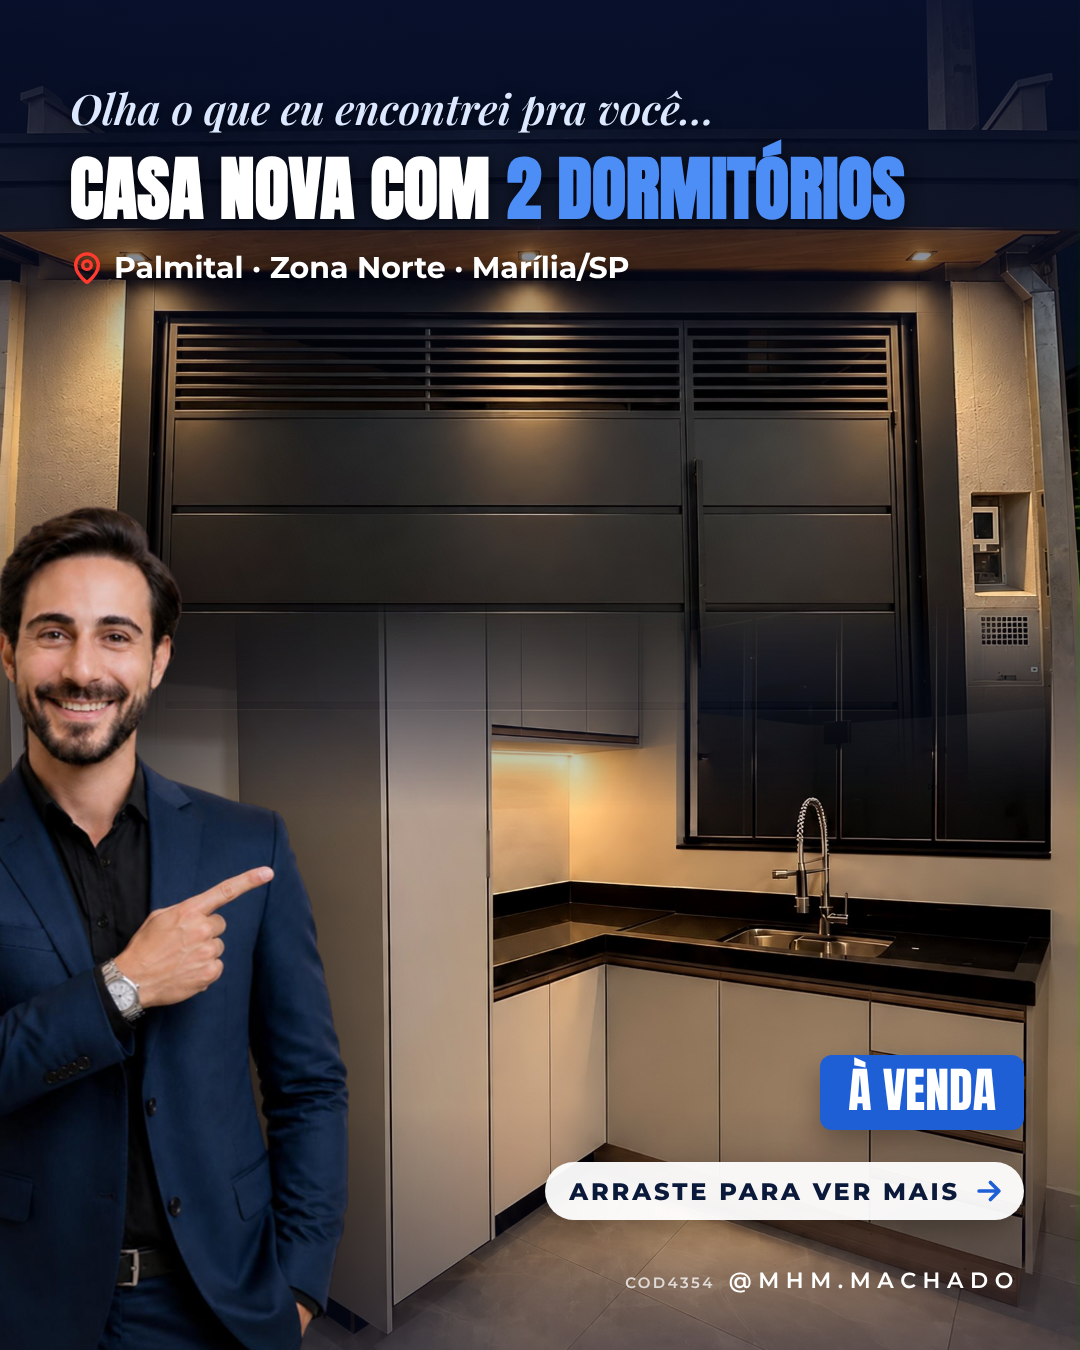
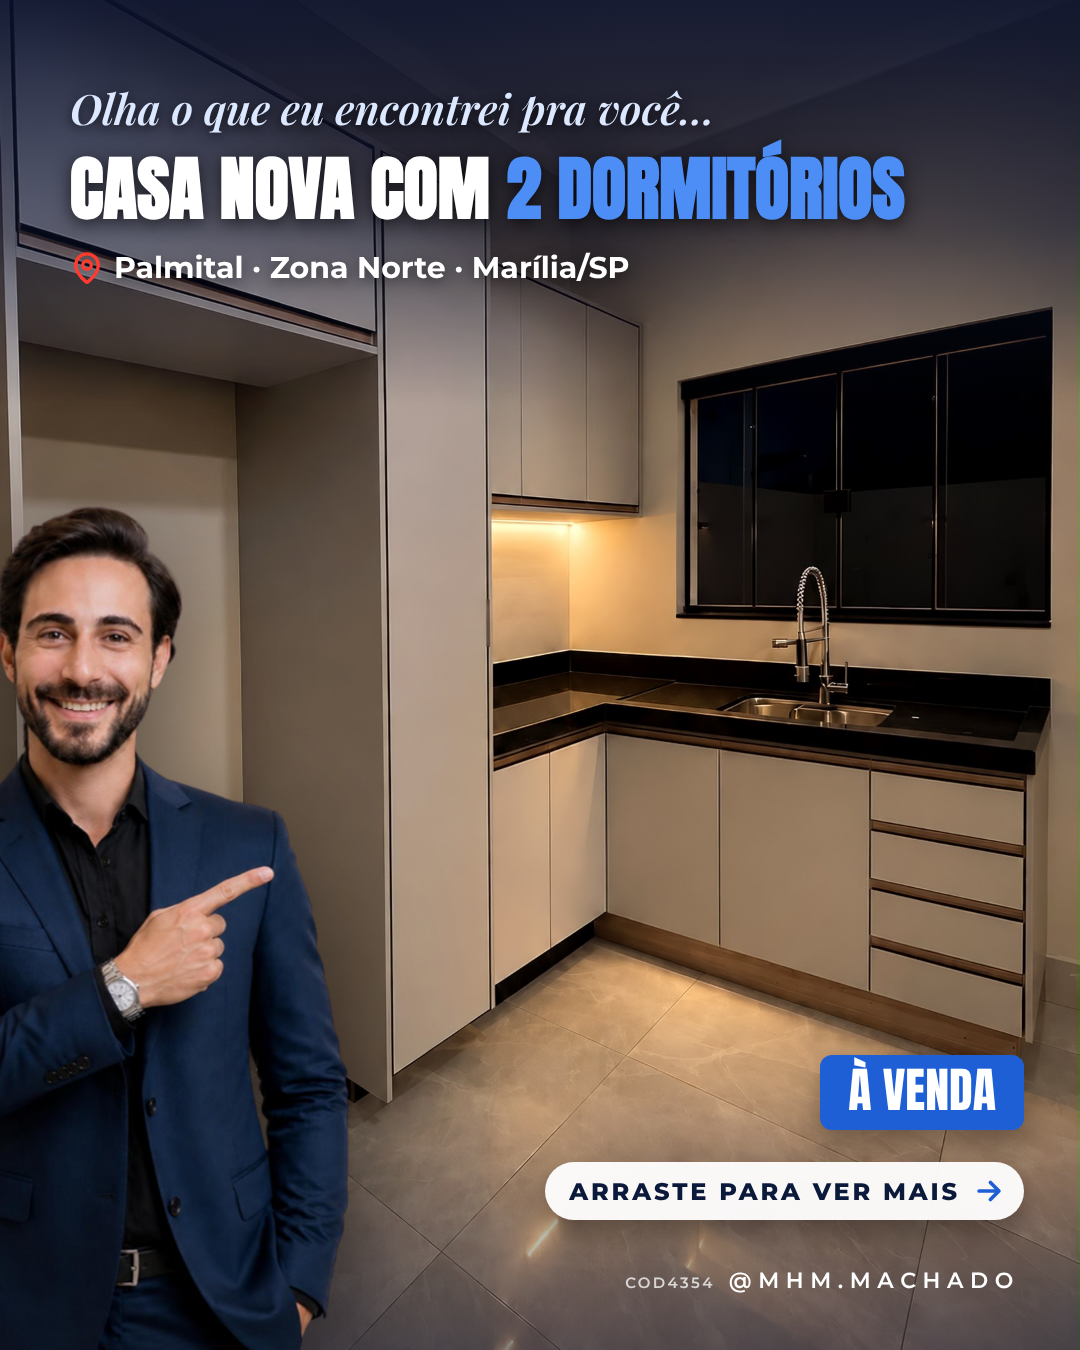
docs(posicionamento): capa do Palmital só com a cozinha planejada
Pedido do dono, só neste post.

Claude-Session: https://claude.ai/code/session_014nbP29vyY3VypJGiymd4bb

diff --git a/docs/posicionamento/carrosseis/2026-10-15-palmital-casa-nova/laminas.html b/docs/posicionamento/carrosseis/2026-10-15-palmital-casa-nova/laminas.html
@@ -20,8 +20,7 @@
 .top .cod{margin-left:6px;padding-left:12px;border-left:1px solid rgba(255,255,255,.4);font-size:16px;letter-spacing:.12em;opacity:.85}
 .hcod{font-size:15px;letter-spacing:.16em;opacity:.75;margin-right:14px}</style></head><body>
 <section class="lamina">
-<img src="tn/f1.jpg" style="position:absolute;left:0;top:0;width:1080px;height:800px;object-fit:cover;object-position:50% 30%;-webkit-mask-image:linear-gradient(180deg,#000 75%,transparent 100%);mask-image:linear-gradient(180deg,#000 75%,transparent 100%)">
-<img src="tn/f4.jpg" style="position:absolute;left:0;top:600px;width:1080px;height:750px;object-fit:cover;object-position:50% 60%;-webkit-mask-image:linear-gradient(0deg,#000 72%,transparent 100%);mask-image:linear-gradient(0deg,#000 72%,transparent 100%)">
+<img class="bg" src="tn/f4.jpg" style="object-position:62% 50%">
 <div style="position:absolute;inset:0;background:linear-gradient(180deg,rgba(8,17,46,.88) 0%,rgba(8,17,46,.55) 17%,rgba(8,17,46,0) 30%,rgba(8,17,46,0) 82%,rgba(8,17,46,.5) 100%)"></div>
 <div style="position:absolute;left:70px;right:70px;top:80px;z-index:1">
  <div style="font:600 italic 42px 'Playfair Display';color:#DCE8FF;text-shadow:0 3px 12px rgba(0,0,0,.7)">Olha o que eu encontrei pra você…</div>

diff --git a/docs/posicionamento/carrosseis/2026-10-15-palmital-casa-nova/legenda.md b/docs/posicionamento/carrosseis/2026-10-15-palmital-casa-nova/legenda.md
@@ -1,6 +1,6 @@
 # Post de imóvel: casa nova no Palmital, Zona Norte (2026-10-15)
 
-Código **COD4354** (provisório até o cadastro no CRM). Carrossel com 10 lâminas no **modelo padrão de post de imóvel** (ver `ESTILO-CARROSSEL.md`). Fotos sem marca d'água de terceiros (LaMa não foi necessário); resolução aumentada 2x com ESRGAN (`2xNomosUni`) e ajuste leve de cor. **Sem valor**, conforme o modelo. Endereço completo fica fora do post (só bairro). Nada foi publicado.
+Capa só com a foto da cozinha planejada (pedido do dono, só neste post). Código **COD4354** (provisório até o cadastro no CRM). Carrossel com 10 lâminas no **modelo padrão de post de imóvel** (ver `ESTILO-CARROSSEL.md`). Fotos sem marca d'água de terceiros (LaMa não foi necessário); resolução aumentada 2x com ESRGAN (`2xNomosUni`) e ajuste leve de cor. **Sem valor**, conforme o modelo. Endereço completo fica fora do post (só bairro). Nada foi publicado.
 
 Dados enviados pelo dono: Rua João Batista Raphael, 807 – Palmital (próximo ao Preço Certo); terreno 5,5 x 30 m (165 m²); 2 dormitórios; sala integrada; cozinha com planejados; área gourmet; pé-direito alto; estuda imóvel ou carro como parte da entrada.
 
